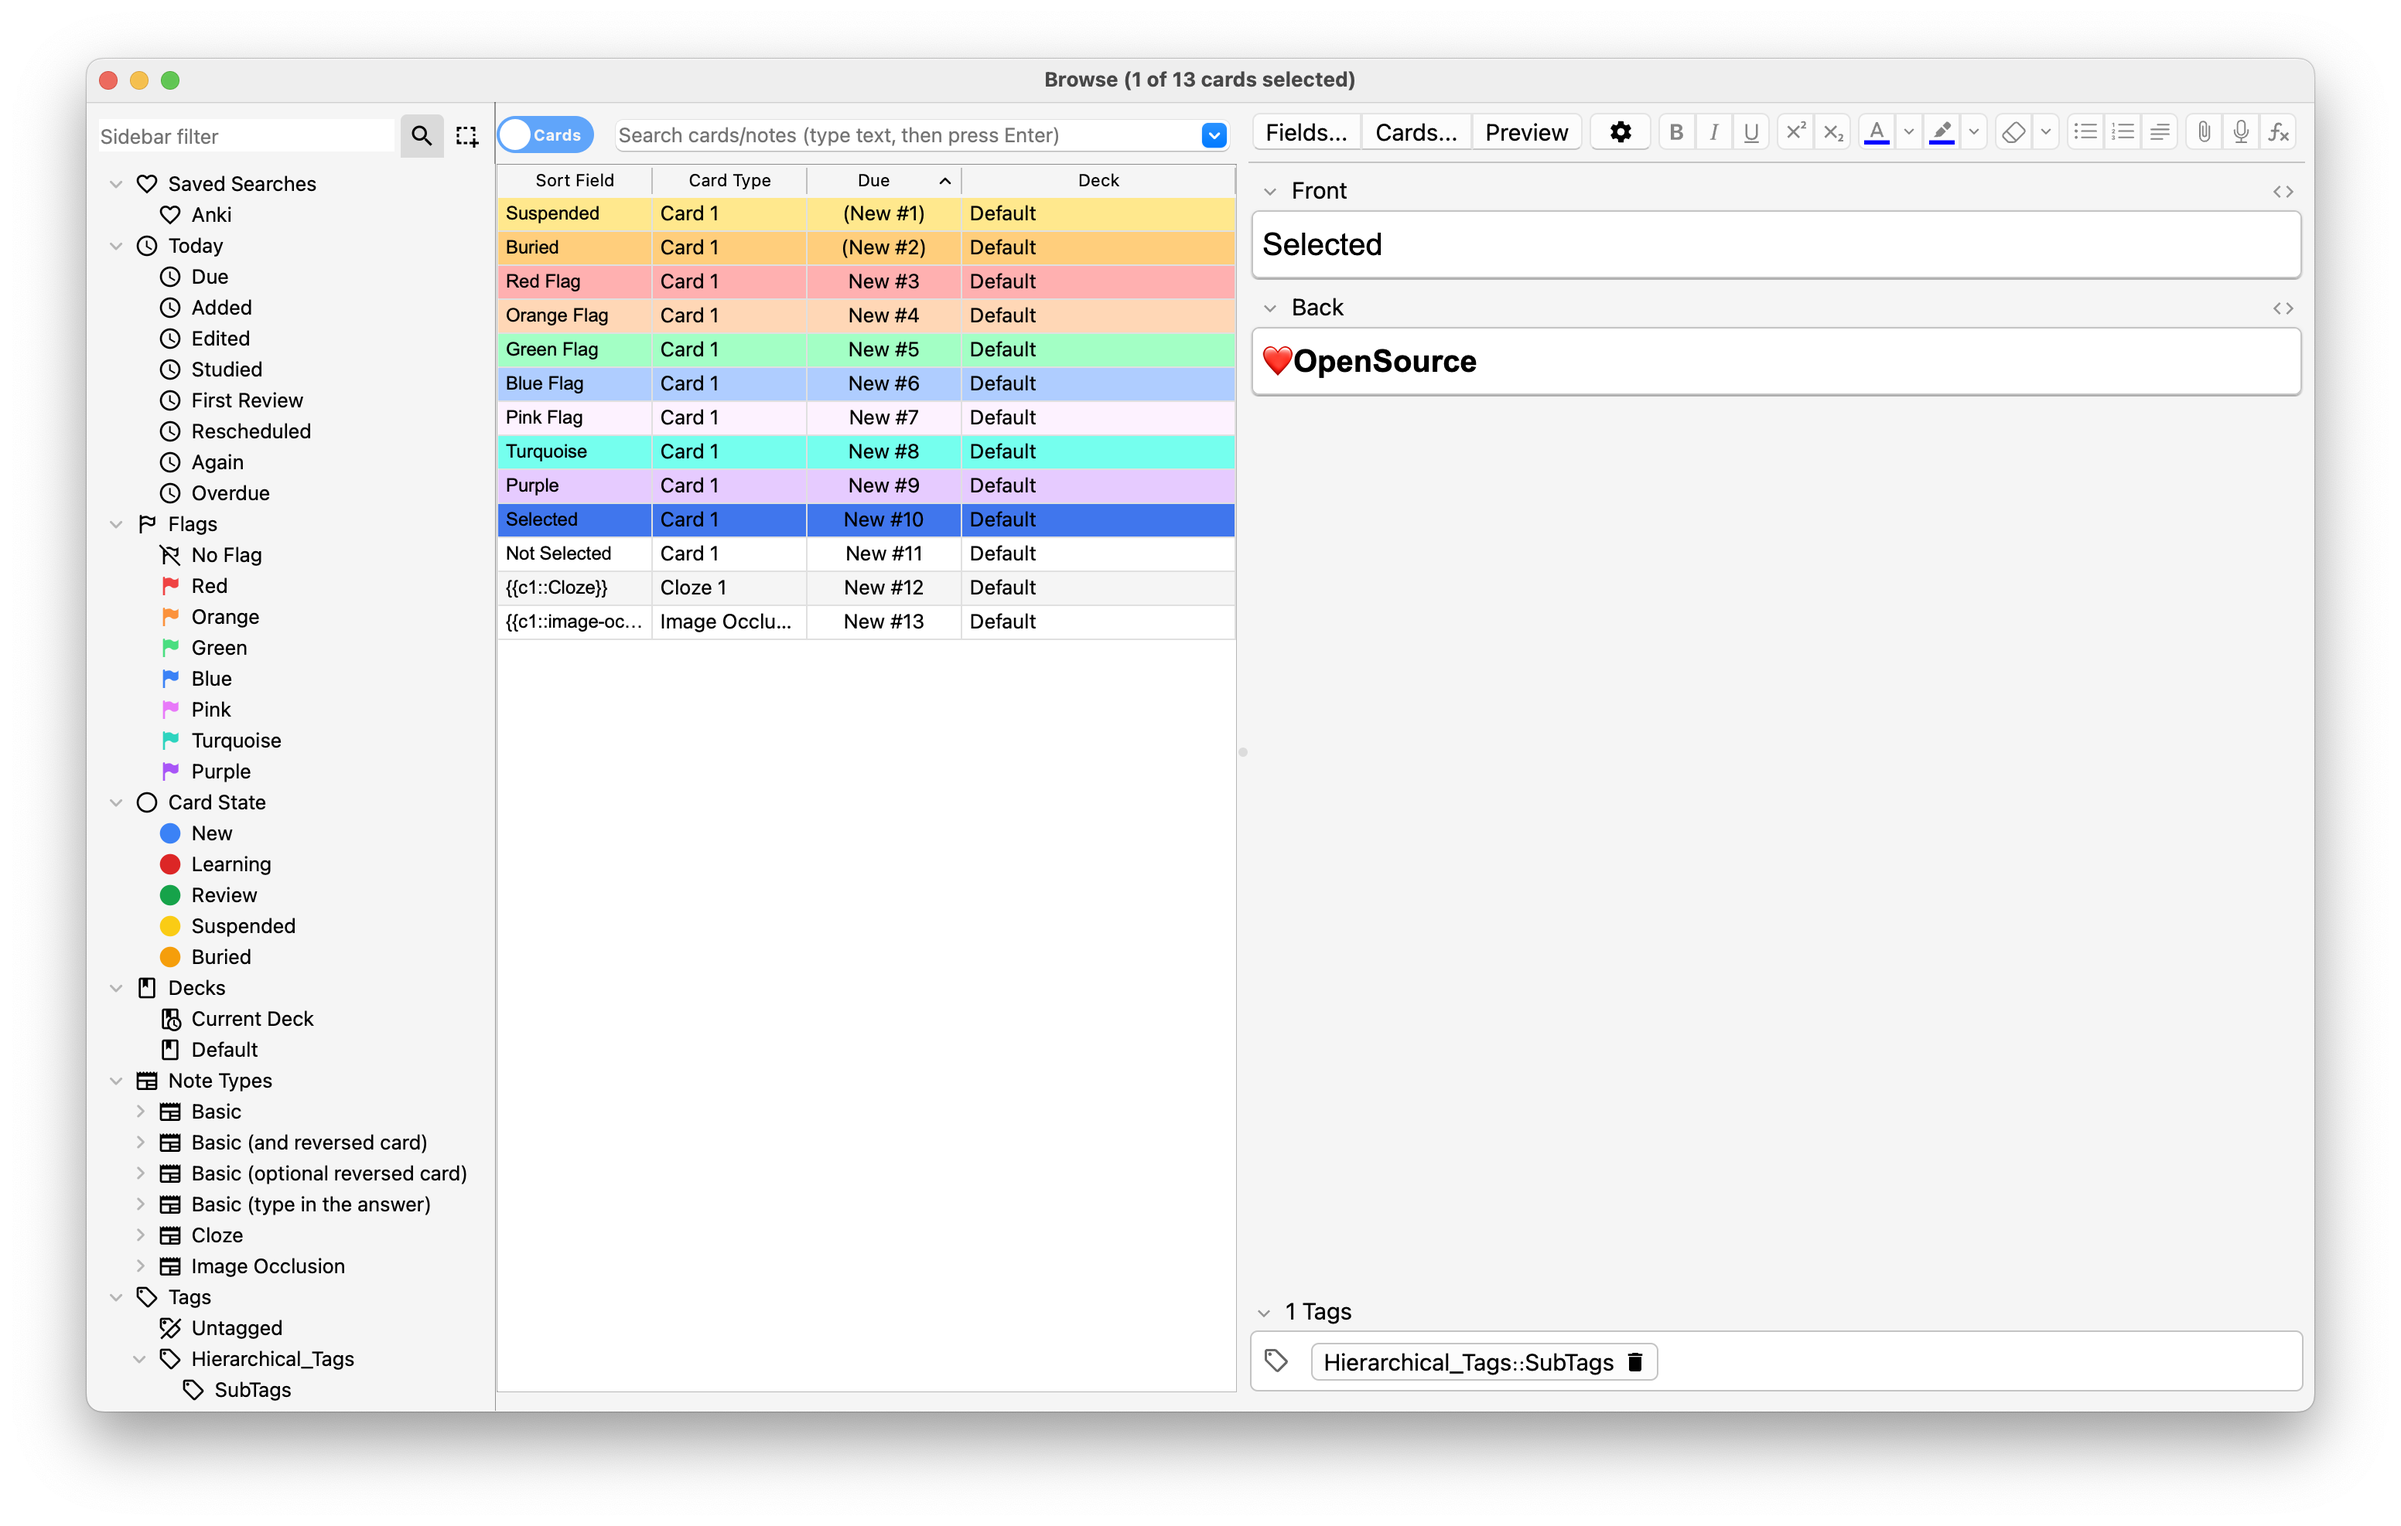
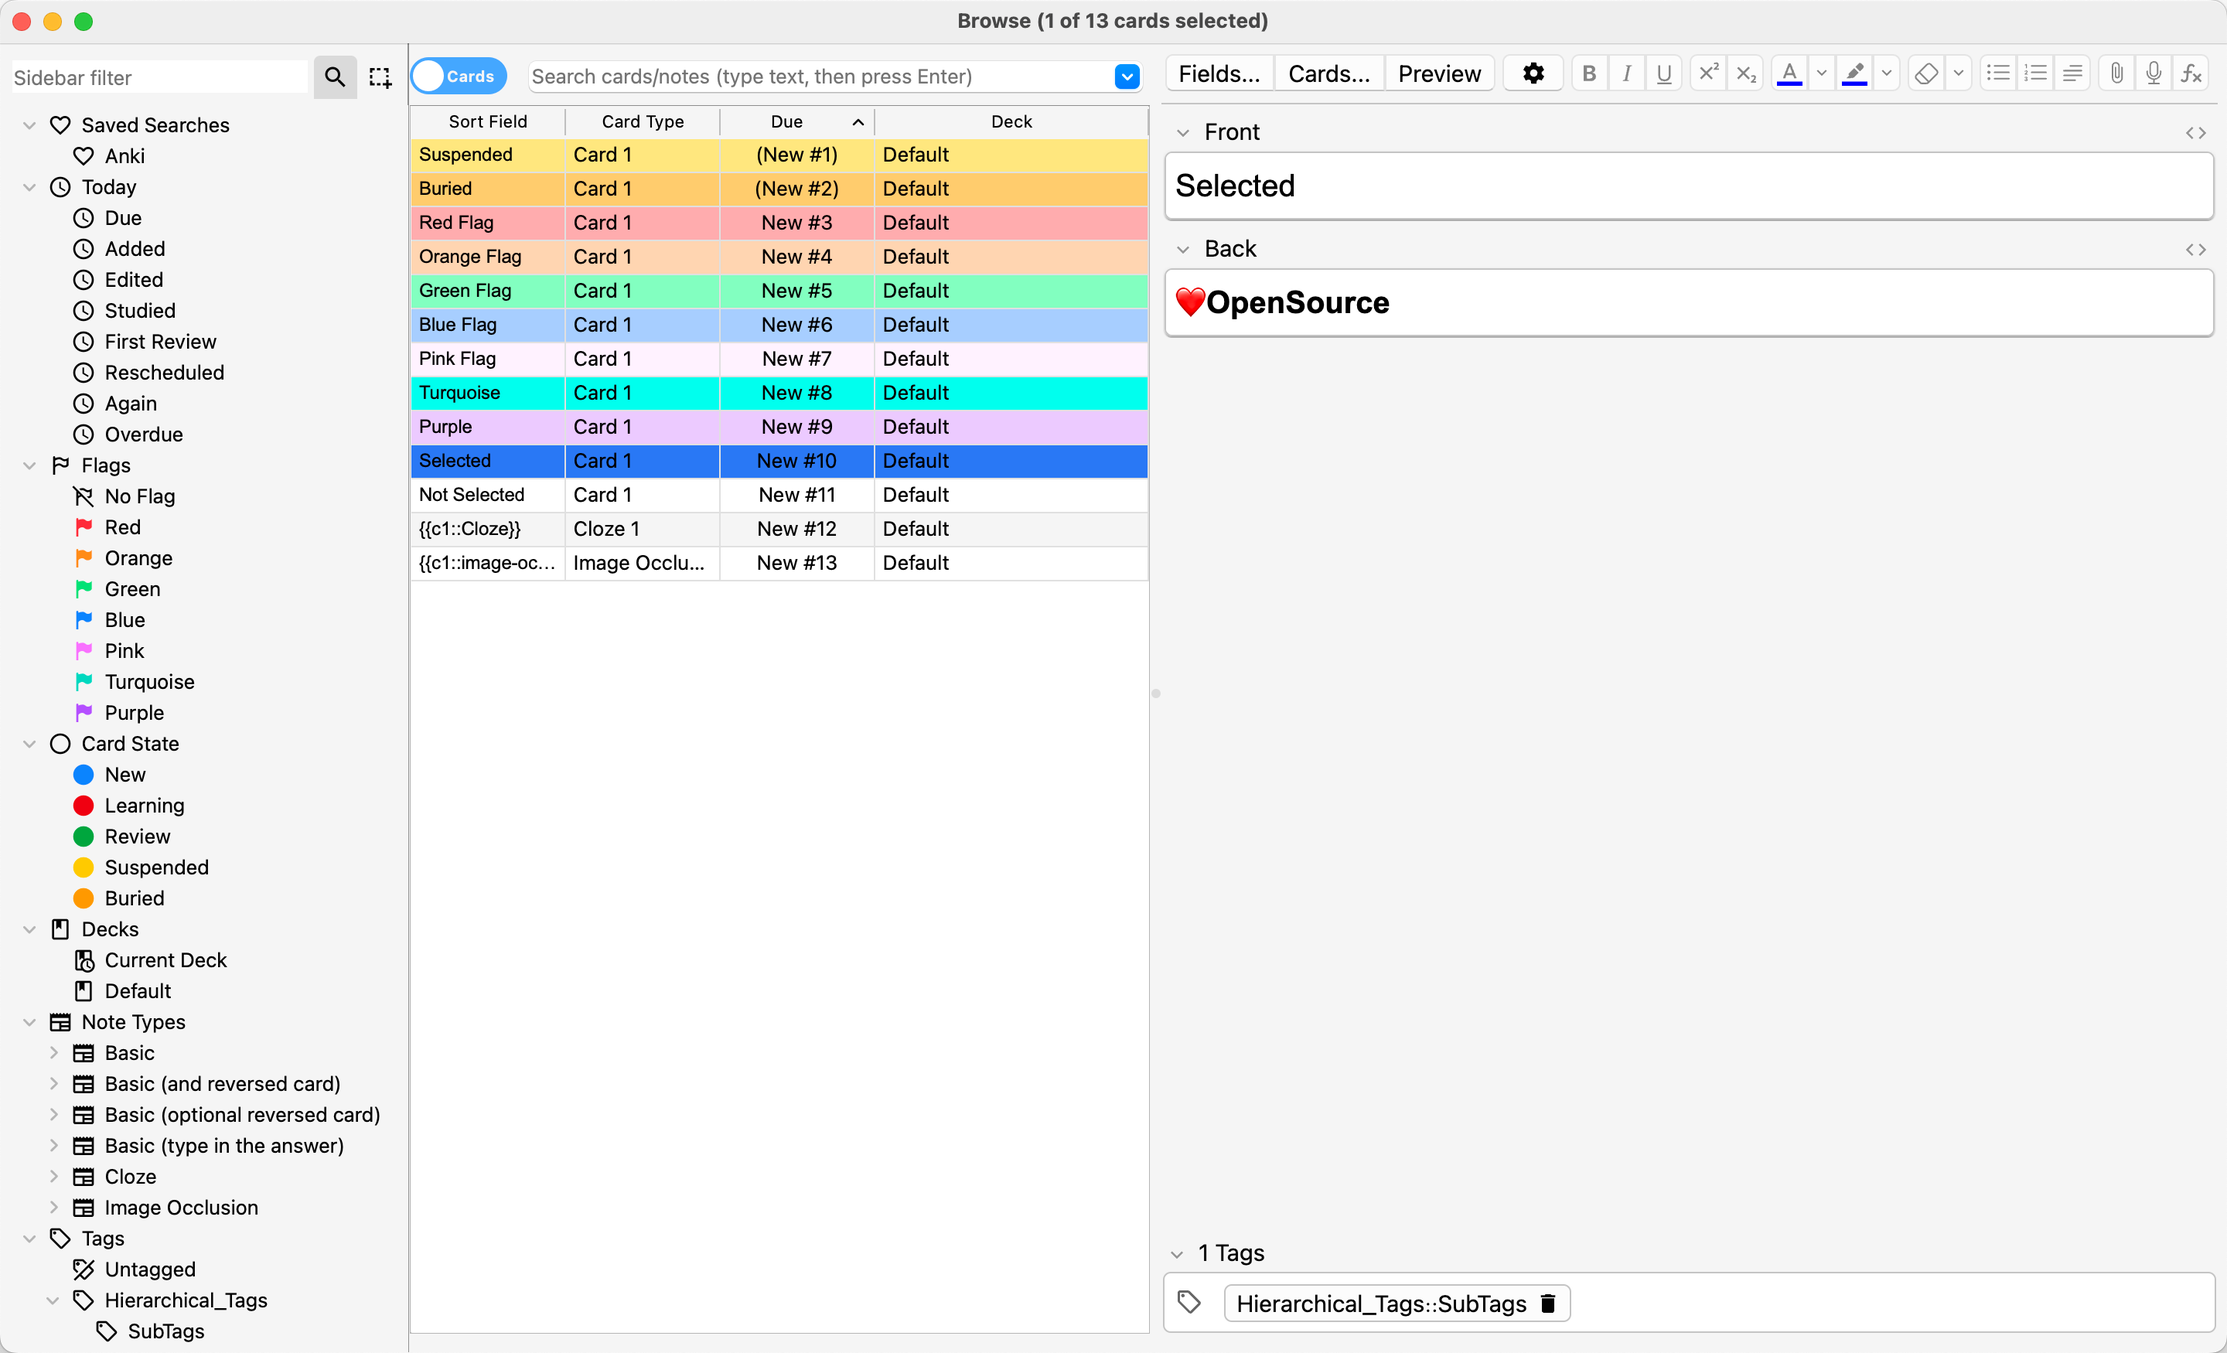
Fix image transparecy, removed excess images, reverted old file names

Changed region(s): [[0.0, 0.0, 1.0, 1.0], [0.7812, 0.0309, 0.8438, 0.1234]]

diff --git a/src/browsing.md b/src/browsing.md
@@ -19,10 +19,6 @@ of the search area, or pressing <kbd>Ctrl</kbd>+<kbd>Alt</kbd>+<kbd>T</kbd> or
 <kbd>Cmd</kbd>+<kbd>Opt</kbd>+<kbd>T</kbd>. The switch also indicates if **C**ards
 or **N**otes are currently shown.
 
-![Table Modes: Cards](media/table_mode_cards.png)
-
-![Table Modes: Notes](media/table_mode_notes.png)
-
 **Note**: For the sake of simplicity, this manual generally assumes the Cards
 mode to be the active one. Whenever selecting/finding/etc. "cards" is mentioned,
 the reader may substitute it for "cards or notes depending on the active mode".
@@ -90,11 +86,10 @@ to append the resulting search to the current search.
 
 ### Saved Searches
 
-If you regularly search for the same thing,
-you can save the current search by right-clicking the topmost item in the sidebar,
-choosing “Save Current Search” and typing in a name.
-You can also drag and drop any sidebar item onto this area to add an equivalent
-saved search, effectively pinning it at the top.
+If you regularly search for the same thing, you can save the current search by right-clicking the topmost item in the sidebar, choosing “Save Current Search” and typing in a name.
+You can also drag and drop any sidebar item onto this area to add an equivalent saved search, effectively pinning it at the top.
+
+![Saved Searches](media/saved_searches.png)
 
 ### Editing Items
 
@@ -117,6 +112,10 @@ see [Searching](searching.md).
 
 The table's rows represent cards or notes that match the current search.
 When you click on a row, the corresponding note will be shown in the bottom section.
+
+![Table Modes: Cards](media/table_mode_cards.png)
+
+![Table Modes: Notes](media/table_mode_notes.png)
 
 
 ### Rows
@@ -295,6 +294,8 @@ have the same content. When you open the window, Anki will look at all
 of your note types and present a list of all possible fields. If you
 want to look for duplicates in the _Back_ field, you’d select it from
 the list and then click **Search**.
+
+![Finding Duplicates](media/find_duplicates.png)
 
 By default, it will search in all note types that have the field you provided.
 This differs from the duplicate check when you add cards manually, which

diff --git a/src/syncing.md b/src/syncing.md
@@ -19,8 +19,6 @@ To start syncing your collection across devices, click the sync button
 You’ll be prompted for your AnkiWeb ID and password, which you created
 in the signup process.
 
-![Account Required](media/sync_account_required.png)
-
 When you synchronize your collection for the first time, Anki will ask
 you if you want to upload or download. If you have cards on your
 computer and your AnkiWeb account is empty, choose **Upload** to send your
@@ -29,8 +27,6 @@ no cards on your computer, choose **Download** to replace the empty local
 collection with the cards that are on AnkiWeb. If you have different
 cards on both devices, [more work is required](#merging-conflicts) to
 avoid losing data.
-
-![Sync with no cards](media/sync_no_cards.png)
 
 Once the initial one-way sync is completed, Anki will be able to merge
 changes from multiple locations with a few exceptions.
@@ -103,6 +99,8 @@ keep the collection on your local device, or the collection on AnkiWeb.
 If changes have been made on both ends, only changes on one end can be
 preserved.
 
+![Merging Conflicts](media/sync_conflict.png)
+
 If you choose **Upload**, the content on your local device will be sent to
 AnkiWeb. You then need to sync your other devices, and choose **Download**
 to have them grab a copy of that content.
@@ -133,8 +131,6 @@ direction, if you have added different content to different devices or
 profiles before setting syncing up, content on one device will be lost
 if you overwrite it with the content from the other device. With some
 work, it is possible to manually merge data into a single collection.
-
-![Merging Conflicts](media/sync_conflict.png)
 
 Start by taking a backup on each device/profile, in case something goes
 wrong. With the computer version you can use **File &gt; Export** to export

diff --git a/src/studying.md b/src/studying.md
@@ -58,6 +58,8 @@ and show the answer than keep struggling to remember.
 After the answer is shown, compare the answer you thought of
 with the answer which is shown and select any of the following button.
 
+![Answers](media/answers.png)
+
 - **Again**: Select this when your answer is incorrect or when you couldn't recall the answer. If your answer is partially correct, you should be strict with yourself: if it counts as a fail in a real-life context outside of Anki, then it counts as a fail in Anki as well. You'll typically use this button about 5-20% of the time.
 
   Keyboard Shortcut: <kbd>1</kbd>
@@ -77,8 +79,6 @@ with the answer which is shown and select any of the following button.
 If you find it hard to use four answer buttons, you can also use only **Again** and **Good** buttons. Use **Again** for incorrect answers and use **Good** for correct answers.
 
 Each answer button shows the next time a card will be reviewed again if you select that button. To learn about the settings that control the next review intervals, see the topics [Learning Steps](deck-options.html#learning-steps), [Lapses](deck-options.md#lapses), [FSRS](deck-options.html#fsrs) and [Advanced](deck-options.md#advanced) in the Deck Options section.
-
-![Answers](media/answers.png)
 
 ## Fuzz Factor
 

diff --git a/src/troubleshooting.md b/src/troubleshooting.md
@@ -21,8 +21,6 @@ the process until you've figured out which add-on is causing the problem. Then p
 
 You can find the version you're using in the Help>About or Anki>About menu. If the version you're using is not the latest version published on <https://apps.ankiweb.net>, please close Anki, install the latest version, and then start Anki again to see if the problem has gone away.
 
-![About Anki](media/about_anki.png)
-
 If you're using Linux, please make sure you can reproduce the error using the packaged version on the Anki website, as distros often distribute [broken versions](https://anki.tenderapp.com/kb/anki-ecosystem/third-party-linux-packages-and-source-builds-are-not-supported).
 
 **4. Check your database**

diff --git a/src/searching.md b/src/searching.md
@@ -5,8 +5,6 @@
 Anki's Browse screen and the Filtered Deck feature use a common method
 of searching for specific cards/notes. This method can also be used to adjust the scope of FSRS optimization. 
 
-![Browse: Search](media/browse_search.png)
-
 ## Simple searches
 
 When you type some text into the search box, Anki finds matching notes
